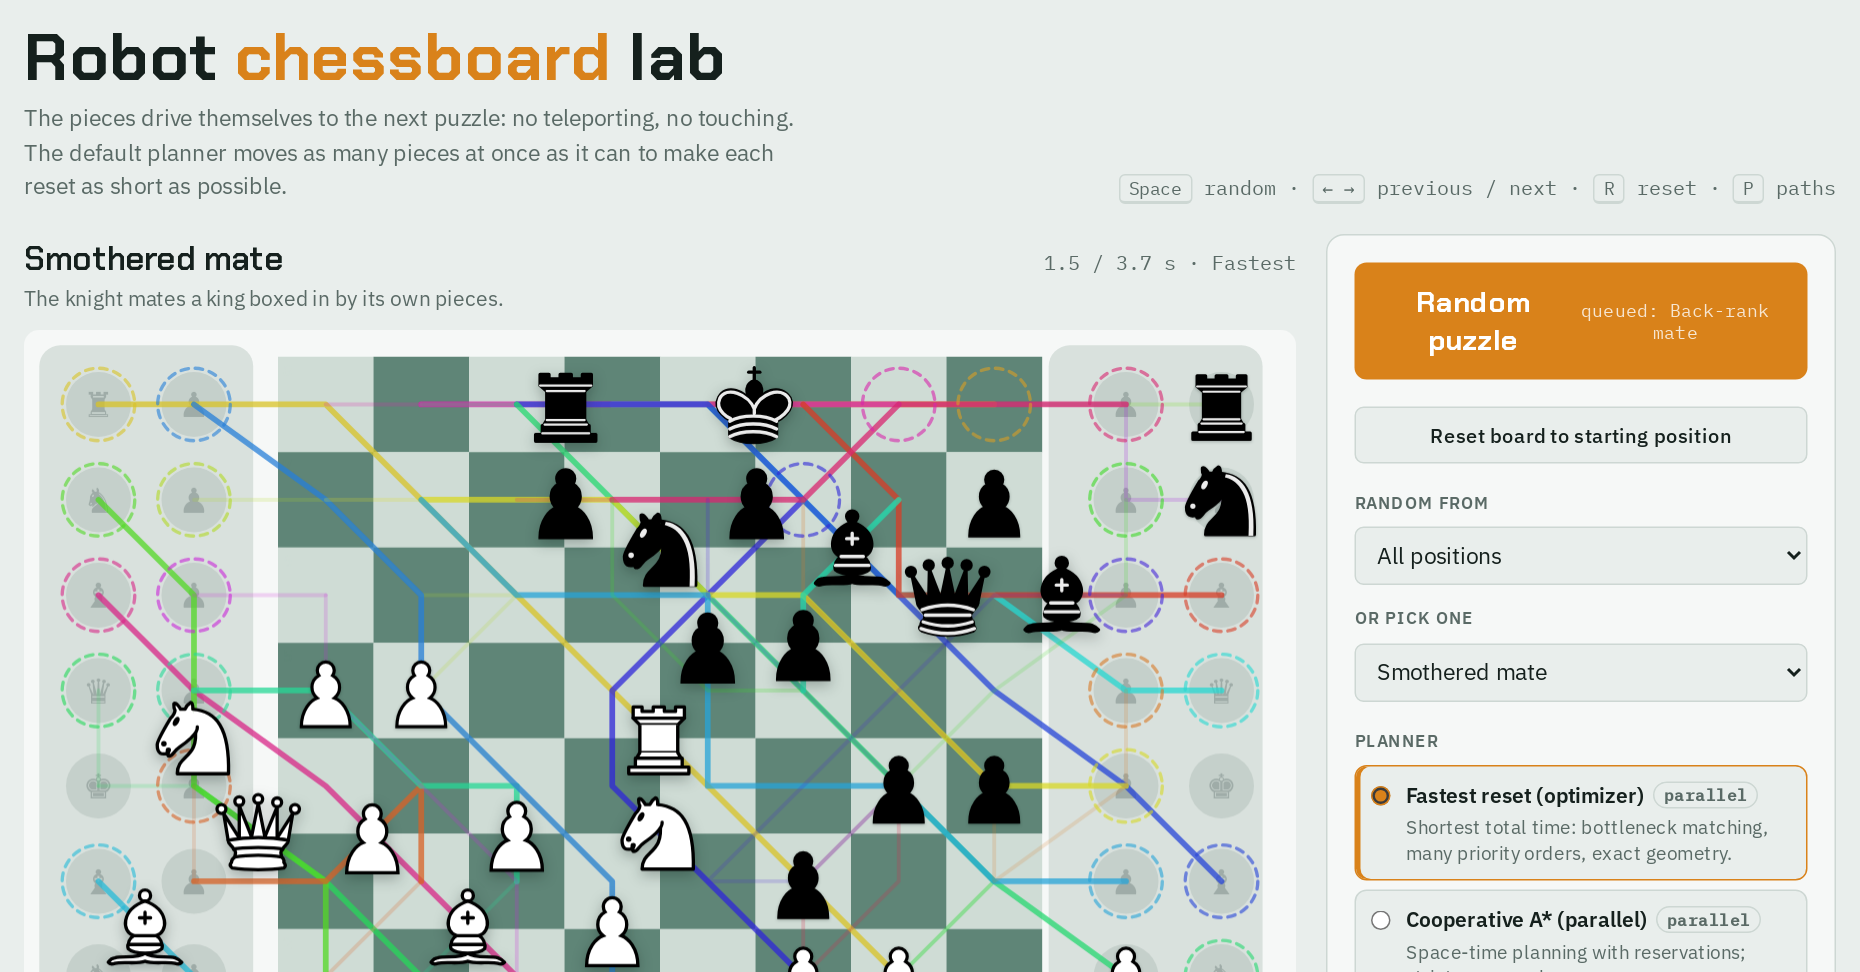
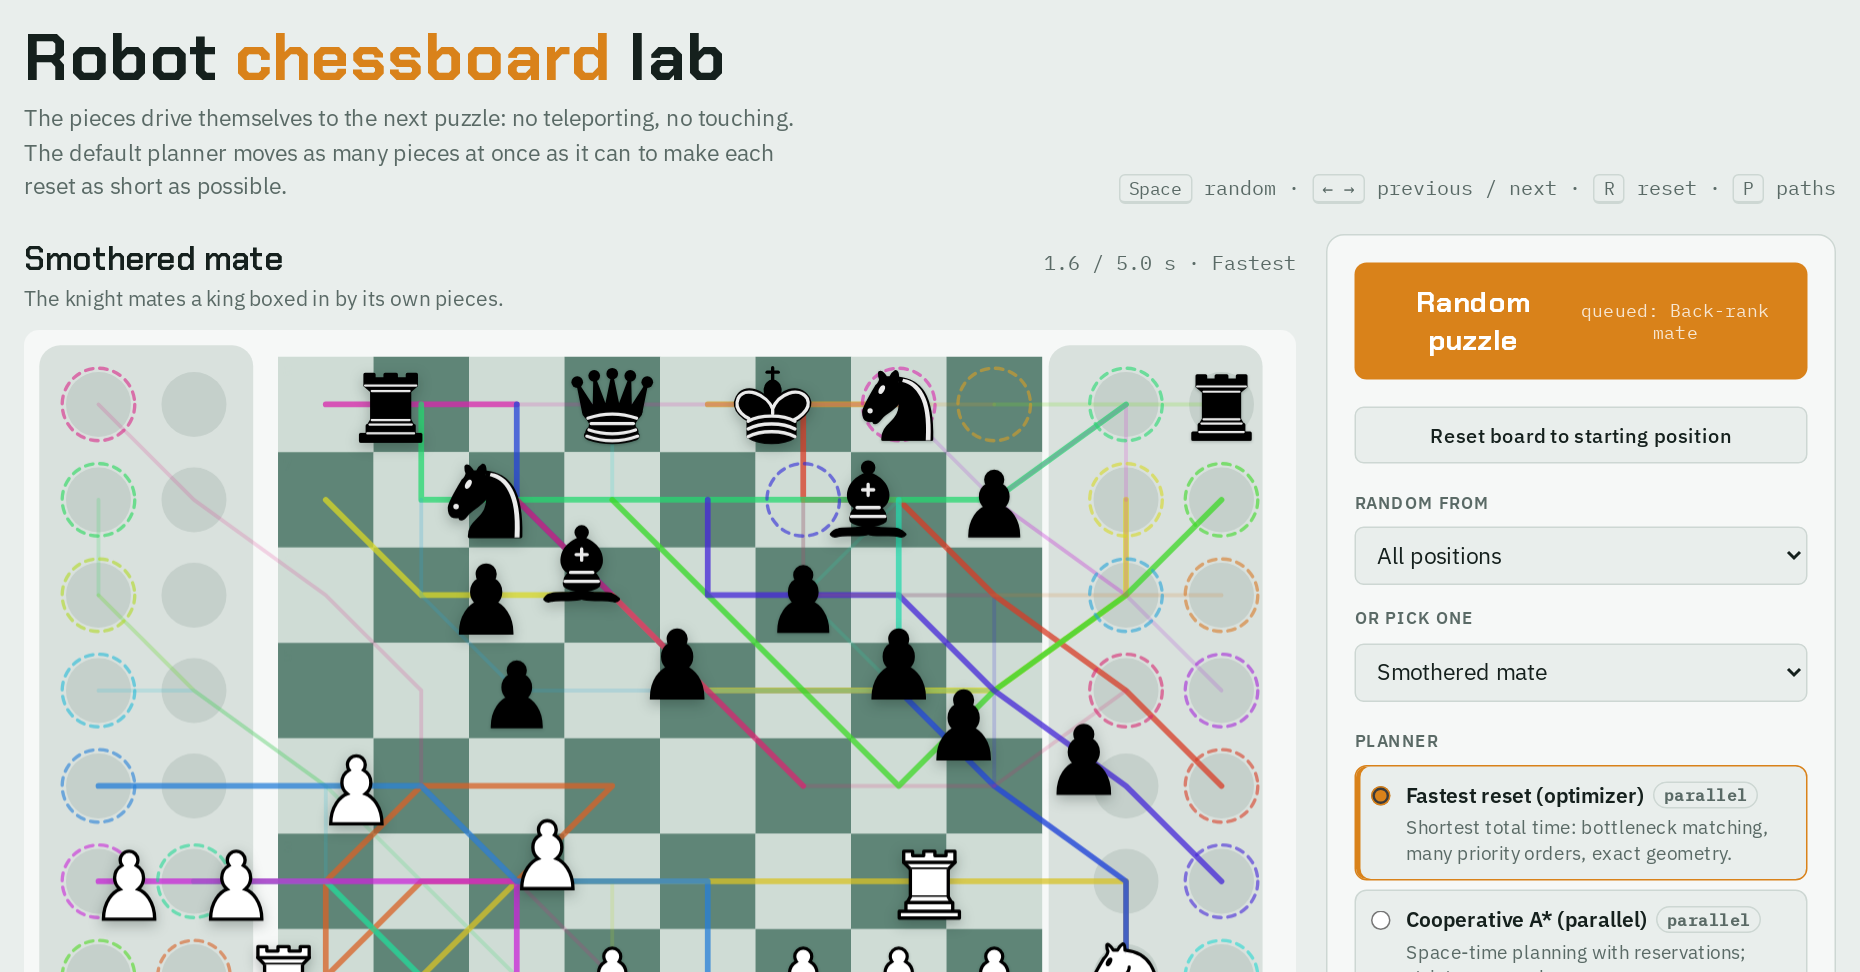
Trays fill back column first, and pieces stop stepping aside for nothing
No piece has a tray place of its own any more. A piece does not squeeze in behind
another: the one in front steps back. The optimizer lets pieces that stay put reserve
their squares first and charges for each that has to move. Over 25 transitions, pieces
stepping aside with nowhere to go fell from about 44 to 1, at 0.2 s per transition.

Changed region(s): [[0.0312, 0.3704, 0.686, 1.0], [0.1871, 0.5556, 0.2183, 0.5864]]

diff --git a/static/js/engine.js b/static/js/engine.js
@@ -70,18 +70,12 @@ function hungarian(a) {
 }
 
 // ---------- configurații ----------
-// Tăvi: coloana 0/1 pentru albe (0 = piese, 1 = pioni), 10/11 pentru negre (10 = pioni, 11 = piese)
-const TRAY_ORDER = ['R','N','B','Q','K','B','N','R'];
-function traySlots() {
-  const slots = {};
-  const add = (t, c) => (slots[t] = slots[t] || []).push(c);
-  for (let r = 0; r < 8; r++) {
-    add(TRAY_ORDER[r], idx(0, r)); add('P', idx(1, r));
-    add(TRAY_ORDER[r].toLowerCase(), idx(11, r)); add('p', idx(10, r));
-  }
-  return slots;
-}
-const TRAY = traySlots();
+// Trays: white on the left, black on the right. No piece has a place of its own: each tray fills
+// its back column (away from the board) first, then its front column, with whatever comes.
+const TRAY_CELLS = {
+  white: [...Array(8).keys()].map(r => idx(0, r)).concat([...Array(8).keys()].map(r => idx(1, r))),
+  black: [...Array(8).keys()].map(r => idx(11, r)).concat([...Array(8).keys()].map(r => idx(10, r))),
+};
 const FULL_SET = 'KQRRBBNNPPPPPPPPkqrrbbnnpppppppp'.split('');
 
 function parseFEN(fen) {
@@ -97,17 +91,43 @@ function parseFEN(fen) {
   return map;
 }
 
+// which tray cell gets which leftover piece: the back column first; among those, the choice that
+// moves the pieces least, so a piece already sitting in the back column stays where it is
+function fillTray(cfg, types, cells, agents, starts) {
+  if (!starts) { types.forEach((t, i) => cfg.set(cells[i], t)); return; }
+  const FRONT = 1000;                       // far above any distance: the front column is the last resort
+  const BEHIND = 4;                         // squeezing in behind a piece costs more than that piece stepping back
+  const at = new Map(); starts.forEach((c, a) => at.set(c, a));
+  const cost = t => cells.map((c, i) => {
+    let d = Infinity;
+    agents.forEach((ag, a) => {
+      if (ag.t !== t) return;
+      const blocker = i < 8 ? at.get(cells[i + 8]) : undefined;     // who stands in front of this back place
+      const behind = blocker !== undefined && blocker !== a && starts[a] !== c;
+      d = Math.min(d, octile(starts[a], c) + (behind ? BEHIND : 0));
+    });
+    return d + (d > 0 ? 0.35 : 0) + (i >= 8 ? FRONT : 0);
+  });
+  const m = types.map(cost);
+  while (m.length < cells.length) m.push(new Array(cells.length).fill(0));   // empty places
+  const res = hungarian(m);
+  types.forEach((t, i) => cfg.set(cells[res[i]], t));
+}
+
 // ținta completă: celulă -> tip pentru toate cele 32 de piese
-function targetConfig(fen) {
+function targetConfig(fen, agents, starts) {
   const board = parseFEN(fen);
   const need = {};
   FULL_SET.forEach(t => need[t] = (need[t] || 0) + 1);
   const cfg = new Map();
   for (const [c, t] of board) { cfg.set(c, t); need[t]--; }
+  const left = { white: [], black: [] };
   for (const t in need) {
     if (need[t] < 0) throw new Error('Prea multe piese de tip ' + t);
-    for (let i = 0; i < need[t]; i++) cfg.set(TRAY[t][i], t);
+    for (let i = 0; i < need[t]; i++) left[t === t.toUpperCase() ? 'white' : 'black'].push(t);
   }
+  fillTray(cfg, left.white, TRAY_CELLS.white, agents, starts);
+  fillTray(cfg, left.black, TRAY_CELLS.black, agents, starts);
   return cfg;
 }
 
@@ -652,7 +672,17 @@ function planCA(starts, goals, opt, budget = 0) {
   // ---- makespan optimizer: try many priority orders, keep the shortest plan ----
   const now = () => (typeof performance !== 'undefined' ? performance.now() : Date.now());
   const tStart = now();
-  const score = r => { let mk = 0, sum = 0; r.paths.forEach(p => { mk = Math.max(mk, p.length - 1); sum += p.length - 1; }); return { mk, v: mk * 1000 + sum }; };
+  // A piece with nowhere to go should not step aside for the others: each one that does counts
+  // as ASIDE_COST extra steps of duration, so a plan pays for it only if it saves real time.
+  const ASIDE_COST = 3;
+  const score = r => {
+    let mk = 0, sum = 0, aside = 0;
+    r.paths.forEach((p, a) => {
+      mk = Math.max(mk, p.length - 1); sum += p.length - 1;
+      if (starts[a] === goals[a] && p.some(c => c !== starts[a])) aside++;
+    });
+    return { mk, v: (mk + ASIDE_COST * aside) * 1000 + sum };
+  };
   let best = null, bestV = Infinity, iters = 0;
   const improvements = [];
   const consider = (r) => {
@@ -673,6 +703,9 @@ function planCA(starts, goals, opt, budget = 0) {
     return null;
   };
   const longest = [...Array(n).keys()].sort((a, b) => D[goals[b] * N + starts[b]] - D[goals[a] * N + starts[a]]);
+  // pieces that stay put reserve their squares first; the others route around them
+  const staysFirst = [...longest].sort((a, b) => (starts[b] === goals[b]) - (starts[a] === goals[a]));
+  for (const k of [0, 2, 1, 3]) if (!best || now() - tStart < budget * 0.6) consider(classic(staysFirst, 12, k));
   for (const k of [0, 2, 1, 3]) if (!best || now() - tStart < budget * 0.6) consider(classic(longest, 12, k));
   if (!best || now() - tStart < budget * 0.7) consider(run(base, 'greedy'));
   if (!best) consider(run(longest, 'greedy'));
@@ -804,7 +837,7 @@ const ALGOS = {
 };
 
 function planTransition(algoKey, agents, starts, fen, opt, carStart) {
-  const cfg = targetConfig(fen), A = ALGOS[algoKey];
+  const cfg = targetConfig(fen, agents, starts), A = ALGOS[algoKey];
   const diag = algoKey === 'naive' ? false : (algoKey === 'pibt' ? false : opt.diag);
   const lb = bottleneckValue(agents, starts, cfg, opt.diag);
   const goals = assign(agents, starts, cfg, A.assign, diag);

diff --git a/static/js/app.js b/static/js/app.js
@@ -176,7 +176,6 @@ function resize() {
   ctx.setTransform(dpr * S, 0, 0, dpr * S, PAD * dpr * S, PAD * dpr * S);
 }
 window.addEventListener('resize', resize);
-const trayType = c => { const x = c % W, y = (c / W) | 0; if (x === 1) return 'P'; if (x === 0) return TRAY_ORDER[y]; if (x === 10) return 'p'; if (x === 11) return TRAY_ORDER[y].toLowerCase(); return null; };
 function rrect(x, y, w, h, r) { ctx.beginPath(); ctx.moveTo(x + r, y); ctx.arcTo(x + w, y, x + w, y + h, r); ctx.arcTo(x + w, y + h, x, y + h, r); ctx.arcTo(x, y + h, x, y, r); ctx.arcTo(x, y, x + w, y, r); ctx.closePath(); }
 const hue = a => (a * 137.508) % 360;
 
@@ -188,10 +187,7 @@ function draw() {
   for (const x0 of [0, 10]) {
     ctx.fillStyle = tok['--tray']; rrect(vx(x0) - 0.12, -0.12, 2.24, 8.24, 0.22); ctx.fill();
     for (let x = x0; x < x0 + 2; x++) for (let y = 0; y < 8; y++) {
-      const t = trayType(y * W + x);
       ctx.fillStyle = tok['--tray-slot']; ctx.beginPath(); ctx.arc(vx(x + 0.5), y + 0.5, 0.34, 0, 7); ctx.fill();
-      ctx.fillStyle = tok['--muted']; ctx.globalAlpha = 0.35; ctx.font = '0.36px "Segoe UI Symbol","DejaVu Sans","Noto Sans Symbols 2",serif';
-      ctx.textAlign = 'center'; ctx.textBaseline = 'middle'; ctx.fillText(GLYPH[t.toLowerCase()] + '', vx(x + 0.5), y + 0.53); ctx.globalAlpha = 1;
     }
   }
   // tabla
@@ -327,12 +323,13 @@ function boardAgents() { const map = new Map(); cells.forEach((c, a) => map.set(
 const isTrayCell = c => cx(c) < 2 || cx(c) >= 10;
 const ALL_TRAY = Array.from({ length: N }, (_, c) => c).filter(isTrayCell);
 function freeTraySlot(type, nearCell) {
-  const occ = new Set(cells);
-  let slots = TRAY[type].filter(c => !occ.has(c));
-  // a piece dropped by hand can sit on any tray cell, so the home slots may all be taken
-  if (!slots.length) slots = ALL_TRAY.filter(c => !occ.has(c));
-  slots.sort((x, y) => Math.hypot(cx(x) - cx(nearCell), cy(x) - cy(nearCell)) - Math.hypot(cx(y) - cx(nearCell), cy(y) - cy(nearCell)));
-  return slots[0];
+  const occ = new Set(cells), own = TRAY_CELLS[type === type.toUpperCase() ? 'white' : 'black'];
+  const dist = c => Math.hypot(cx(c) - cx(nearCell), cy(c) - cy(nearCell));
+  // the back column of its own tray, then the front; a tray filled by hand can leave only the other one
+  for (const pool of [own.slice(0, 8), own.slice(8), ALL_TRAY]) {
+    const free = pool.filter(c => !occ.has(c));
+    if (free.length) return free.reduce((b, c) => dist(c) < dist(b) ? c : b);
+  }
 }
 const inTray = (a, type) => agents[a].t === type && isTrayCell(cells[a]) && !(game && game.held && game.held.a === a);
 function trayHas(type) { return agents.some((ag, a) => inTray(a, type)); }

diff --git a/README.md b/README.md
@@ -14,7 +14,7 @@ The idea came from watching a commercial robotic board, the Chessnut Move, set u
 
 | Planner | Idea |
 |---|---|
-| **Fastest reset** (default) | Bottleneck assignment, so the longest single trip is as short as possible; then many priority orders within about a second, moving the piece that arrives last to the front; moves checked with exact geometry |
+| **Fastest reset** (default) | Bottleneck assignment, so the longest single trip is as short as possible; then many priority orders within about a second, moving the piece that arrives last to the front; moves checked with exact geometry; pieces with nowhere to go are left alone |
 | **Cooperative A\*** | Space-time planning with reservations, one greedy priority order, strict square rules |
 | **PIBT** | No long-term plan: at each step every piece moves towards its target, pushing and passing on priority when needed |
 | **Optimized sequential** | One magnet under the board: Hungarian assignment, an order that keeps empty magnet travel short, A\* with diagonals and rounded corners |
@@ -26,26 +26,35 @@ All five planners on the same chain of 25 changes of position (every position in
 
 | Planner | Mean duration | Mean piece travel | Mean compute | Smallest distance between pieces |
 |---|---:|---:|---:|---:|
-| *Lower bound* | *2.3 s* | | | |
-| Fastest reset | **2.7 s** | 90 squares | 485 ms | 0.89 |
-| Cooperative A\* | 5.1 s | 106 squares | 86 ms | 1.00 |
-| PIBT | 6.1 s | 170 squares | 1 ms | 1.00 |
-| Optimized sequential | 39.6 s | 94 squares | 5 ms | 1.00 |
-| Naive | 55.9 s | 131 squares | 1 ms | 1.00 |
+| *Lower bound* | *2.2 s* | | | |
+| Fastest reset | **2.8 s** | 78 squares | 434 ms | 0.89 |
+| Cooperative A\* | 5.0 s | 104 squares | 74 ms | 1.00 |
+| PIBT | 5.8 s | 152 squares | 1 ms | 1.00 |
+| Optimized sequential | 37.3 s | 89 squares | 5 ms | 1.00 |
+| Naive | 59.0 s | 138 squares | 1 ms | 1.00 |
 
-- The default planner finishes about 13% above the lower bound, roughly 21 times faster than moving one piece at a time.
-- Every plan completed, and no two pieces came closer than their diameter. The fallbacks are visible in the app: Cooperative A\* fell back to PIBT on at least one transition, and the two sequential planners finished with serialized PIBT when their heuristic looped.
+- The default planner finishes about 30% above the lower bound, roughly 21 times faster than moving one piece at a time.
+- Every plan completed, and no two pieces came closer than their diameter. The fallbacks are visible in the app: the two sequential planners can finish with serialized PIBT when their heuristic loops.
 - The 12 mate-in-two puzzles were checked with the app's own solver: each has exactly one key move.
 
 Compute times are from one run in headless Chromium and will differ on your machine. The Fastest reset planner has a time budget and randomised orders, so its numbers vary slightly between runs.
 
 ![The comparison table in the app: the same transition run by all five planners](docs/comparison.png)
 
+## Tidy trays
+
+A piece has no place of its own on a tray. Each colour fills its back column first, then the front one, with whatever comes. Duration alone is not what makes a move look right: a planner chasing only the clock will happily make pawns step aside to let a knight squeeze in behind them, which no person would do. So:
+
+- a piece does not squeeze in behind another: the piece in front steps back and the newcomer takes its place;
+- in the Fastest reset planner, pieces that stay put reserve their squares first, and each piece that has to step aside counts as extra duration.
+
+Over the same 25 transitions (mean of three runs), pieces stepping aside with nowhere to go fell from about 44 to 1, at the price of 0.2 s per transition.
+
 ## Captures by hand
 
 A person does not leave a captured piece to tidy itself away, so by default the app doesn't either. When you take a piece, it stays on your cursor while your own piece drives to the square. Nothing else can move until you drop it on a free place on either tray, wherever you like; in the mate-in-two puzzles the robot replies only after that. Its own captures still go to the tray by themselves. The option is under Movement rules.
 
-Pieces are not tied to parking places: every plan starts from where the pieces really are. The next puzzle takes that knight from wherever you left it, even a slot marked for another piece. Positions stay on the tray's grid, because the planners work on cells. A test with pieces shuffled across the trays passed on all five planners (12 of 12 transitions each, with no collisions).
+Pieces are not tied to parking places: every plan starts from where the pieces really are. The next puzzle takes that knight from wherever you left it. Positions stay on the tray's grid, because the planners work on cells. A test with pieces shuffled across the trays passed on all five planners (12 of 12 transitions each, with no collisions).
 
 ![A captured knight on the cursor, with a dashed ring on the free tray place where it would land](docs/capture-by-hand.png)
 
